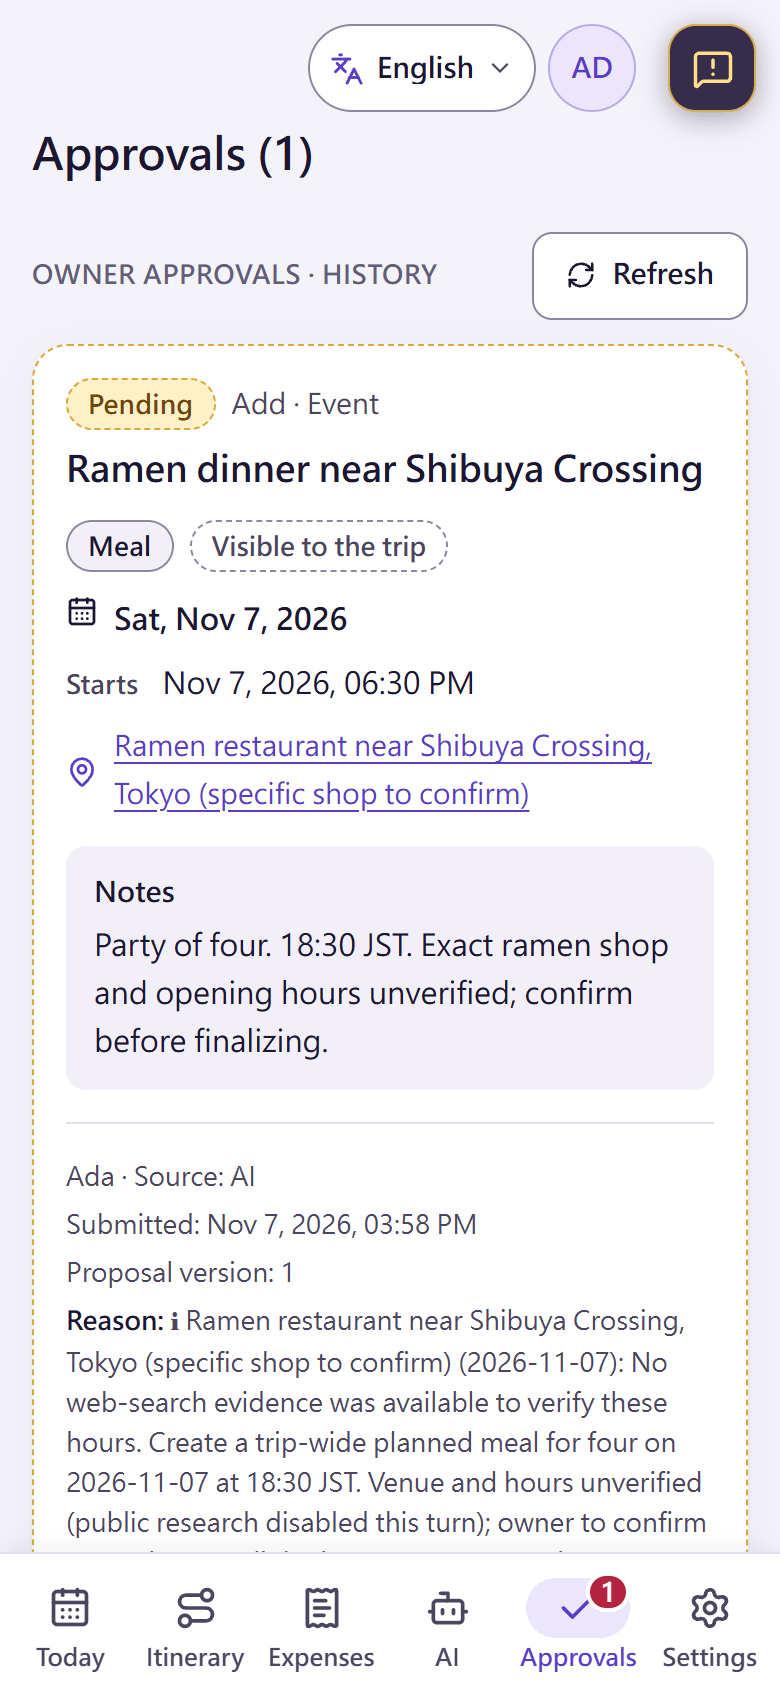
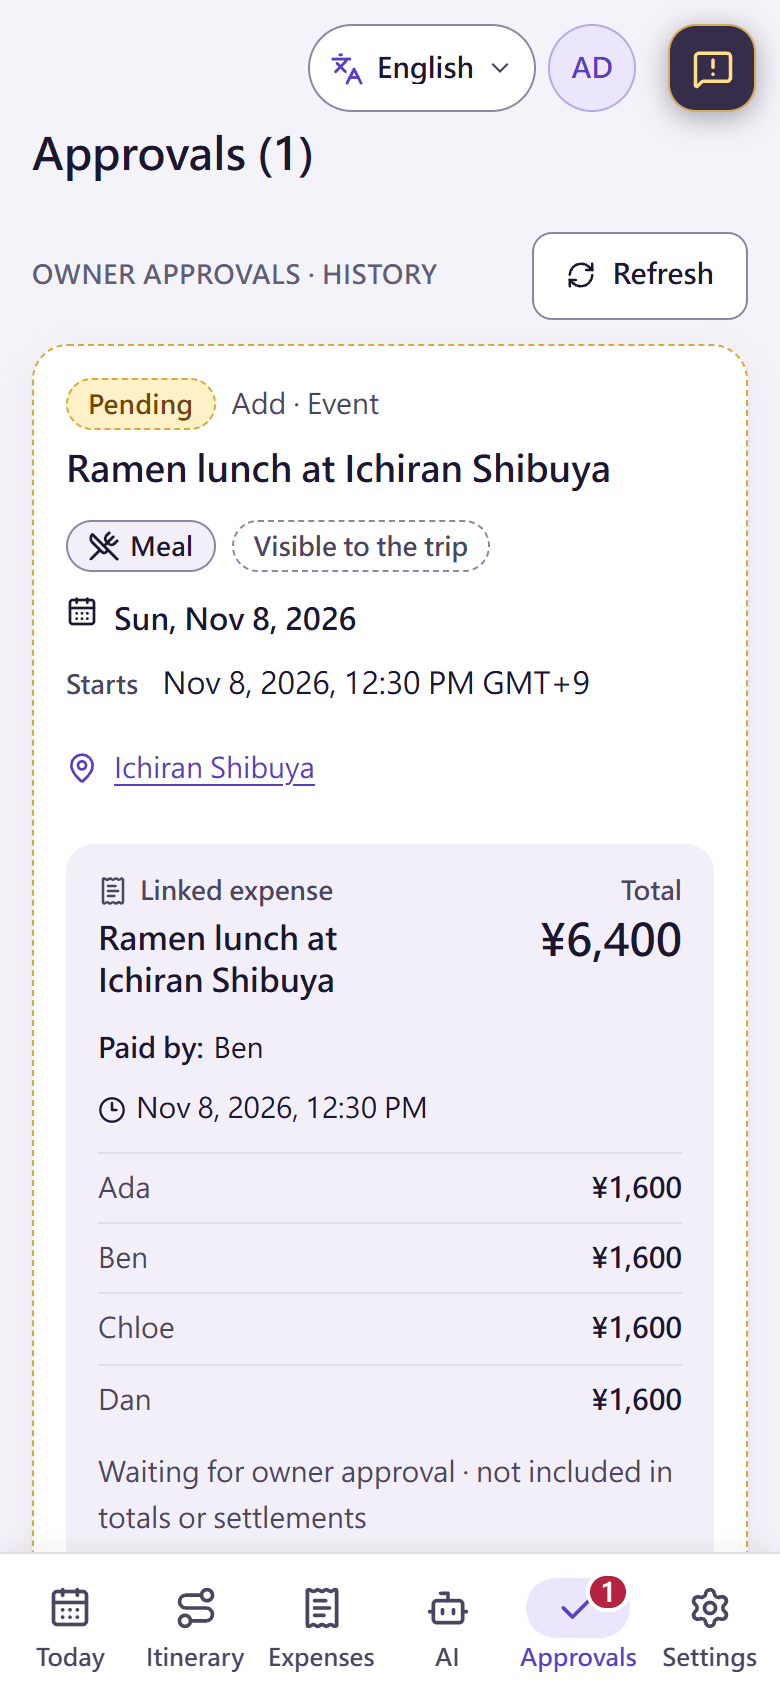
docs: README story, English screenshots and the Apache 2.0 license (JOB-095)
The README now says why the app exists, what it does (routine checks that warn
about surprises, events from a photo or a pasted email, shared expenses), how
to install it on a phone, and how to try the public instance and send
feedback. Five new English screenshots from a local build with synthetic data:
overview, a flight time changed by a routine check, an AI proposal, a
three-stop day map and the API keys section.

The application is relicensed under the Apache License 2.0 (D-107), with a
NOTICE for bundled data. JOB-093 and JOB-094 are recorded as deployed and
verified on GKE.

diff --git a/README.md b/README.md
@@ -1,26 +1,40 @@
 # Stardust Itinerary · 星塵遠征軍
 
-A mobile-first planner for group trips, where AI proposes and application code decides: one shared itinerary, expense splitting, day maps, weather and disruption checks, and flight status checks before departure. In English, Cantonese, Japanese, Simplified and Traditional Chinese, Spanish, Portuguese, French, German, Russian and Indonesian.
+A travel AI assistant that organizes trips for a group or just for you: one shared itinerary, expenses that settle themselves, and AI that keeps an eye on your flights and plans. Application code, not the model, decides what changes.
 
-**Try it:** <https://stardust-itinerary.chl-work.com>. Sign in with Google, or create an empty guest trip with a few free AI requests. Guest data expires after 24 hours and is not transferred when you sign in.
+**Try it:** <https://stardust-itinerary.chl-work.com>. Sign in with Google, or start a guest trip that is deleted after 24 hours.
 
 <p align="center">
-  <img src="docs/screenshots/today.png" width="18%" alt="Today: trip progress, the four members and the next event with its weather">
-  <img src="docs/screenshots/itinerary-cantonese.png" width="18%" alt="The day's itinerary in Cantonese, with times and weather for each event">
-  <img src="docs/screenshots/day-map.png" width="18%" alt="Day map: numbered stops on OpenStreetMap with walking and driving times">
-  <img src="docs/screenshots/expenses.png" width="18%" alt="Expenses: my own costs, bills I paid, what I still owe and a suggested settlement">
-  <img src="docs/screenshots/ai-proposal.png" width="18%" alt="A dinner proposed by the AI, waiting for the owner's approval">
+  <img src="docs/screenshots/overview.png" width="19%" alt="Overview: today's plan, trip progress, the members and the next event">
+  <img src="docs/screenshots/itinerary-flight-changed.png" width="19%" alt="Itinerary: a flight whose departure a routine check moved, marked Changed">
+  <img src="docs/screenshots/ai-proposal.png" width="19%" alt="An event proposed by the AI, waiting for approval">
+  <img src="docs/screenshots/day-map.png" width="19%" alt="Day map: three numbered stops with walking and driving times">
+  <img src="docs/screenshots/api-keys.png" width="19%" alt="The AI tab: usage, routine checks and the API keys section">
 </p>
-<p align="center"><sub>Today · itinerary in Cantonese · day map · expenses · AI proposal awaiting approval. Synthetic data on a local build.</sub></p>
+<p align="center"><sub>Overview · a flight time changed by a routine check · AI proposal · day map · API keys. Synthetic data on a local build.</sub></p>
 
-## Highlights
+## Why I built this
 
-- **One itinerary per day:** events, transport and lodging in time order, with location-local clocks. Private events stay with the people involved, and owners review changes.
-- **Expenses that add up:** equal or exact shares, totals per currency, repayments and suggested settlements, all calculated by code, not by a model.
-- **AI that proposes:** chat, or paste a booking screenshot or an event link. The model drafts events and expenses; the app checks them, and changes wait for review. On your own key, new items you could add yourself go straight in.
-- **Maps and weather:** numbered OpenStreetMap day maps with walking and driving times, a forecast for each stop and checks for official disruption notices.
-- **Choose free or bring a key:** free text planning is available to signed-in members and guests where enabled, with limits and a retention notice. OpenAI, Anthropic and Gemini keys belong to your account and stay encrypted; optional [Secret Manager storage](docs/AI_KEYS.md) preserves Cloud KMS protection.
-- **Made for phones:** swipeable days, a read-only offline copy, and AI requests that survive the phone going to sleep.
+I wanted a travel AI assistant that organizes travel, for a group or just for me. I got tired of recording and calculating expenses, begging friends to pay me back, and checking whether something unexpected had happened to a flight or a plan. Stardust does that work for me.
+
+## What it does
+
+- **Watches for surprises:** with your own AI key, routine checks look up your flights and events automatically: delays, cancellations, gate and terminal changes, closures, strikes and severe weather. Changes and warnings appear on the event, and an open page can notify you.
+- **Events from a photo:** take a picture of a ticket, a booking or a screenshot, and the AI creates the event (on your own key).
+- **Paste an email or a text:** paste a confirmation email or a message, and the AI turns it into events and expenses.
+- **Expenses that add up:** who paid, who owes whom, repayments and suggested settlements, all calculated by code, so nobody has to chase the numbers.
+- **One shared itinerary:** each day in time order with local clocks, private events, day maps and weather.
+- **Usage you can see:** the AI tab charts your tokens per day with an estimated cost.
+- **Free or your own key:** free AI for text planning, or your own OpenAI, Anthropic or Gemini key. Keys are encrypted (Cloud KMS, kept in Google Secret Manager on the public instance) and never shown again.
+- **Twelve languages:** English, Cantonese, Japanese, Simplified and Traditional Chinese, Spanish, Portuguese, French, German, Russian and Indonesian.
+
+## Install it on your phone
+
+Open <https://stardust-itinerary.chl-work.com> on your phone and tap **Install** (on Android, the install prompt or ⋮ → Install app; on iPhone, Safari's Share → **Add to Home Screen**). It then opens like an app and keeps a read-only offline copy of your itinerary.
+
+## Try it and tell me what you think
+
+The public instance runs on Google Cloud (GKE Autopilot) and is open to anyone while my $300 Google Cloud credit lasts. Please report bugs and feature requests as an [issue in this repository](https://github.com/CHL-work/stardust-itinerary/issues), or with the feedback button in the app.
 
 ## Find your way
 
@@ -46,4 +60,4 @@ pnpm dev                     # http://127.0.0.1:3100
 
 ## License
 
-[MIT](LICENSE) for application code. The bundled locality time-zone data is adapted from [GeoNames](https://www.geonames.org/) under CC BY 4.0; [attribution and changes](src/lib/app/place-time-zones.LICENSE).
+[Apache License 2.0](LICENSE); see [NOTICE](NOTICE). The bundled locality time-zone data is adapted from [GeoNames](https://www.geonames.org/) under CC BY 4.0 ([attribution and changes](src/lib/app/place-time-zones.LICENSE)), and the airport catalog from mwgg/Airports under MIT ([license](src/lib/app/airport-time-zones.LICENSE)).

diff --git a/docs/jobs/JOB-095-readme-and-license.md b/docs/jobs/JOB-095-readme-and-license.md
@@ -1,7 +1,7 @@
 ---
 id: JOB-095
 title: README story and features, English screenshots, phone install, and the Apache 2.0 license
-status: in_progress
+status: done
 priority: P2
 depends_on: [JOB-093, JOB-094]
 claimant: Claude
@@ -20,8 +20,26 @@ On 8 November 2026 the owner asked the README to say why the app exists, what it
   - five English screenshots from a local build with synthetic data: overview, an itinerary with a changed flight time, an AI proposal, a three-stop day map and the API keys section;
   - the Apache License 2.0 text, a NOTICE file and every license reference.
 - **Out:**
-  - changes to third-party data licenses.
+  - changes to third-party data licenses, which stay CC BY 4.0 (GeoNames) and MIT (mwgg/Airports).
+
+## Delivered
+
+1. **README:** a one-line pitch, **Why I built this** in the owner's words, **What it does** (routine checks that warn about surprises, events from a photo, events from a pasted email or text, expenses, the shared itinerary, usage, free or own keys with encryption, twelve languages), **Install it on your phone**, and **Try it and tell me what you think** (Google Cloud, the $300 credit, issues in this repository or the in-app feedback button). The navigation table and development steps are unchanged.
+2. **Screenshots:** `overview.png`, `itinerary-flight-changed.png`, `ai-proposal.png`, `day-map.png` and `api-keys.png` replace the JOB-076 set; `today.png`, `itinerary-cantonese.png` and `expenses.png` were removed.
+3. **License:** the canonical Apache License 2.0 text in `LICENSE` (byte for byte, so GitHub detects it), a `NOTICE` with the copyright and bundled data attributions, `"license": "Apache-2.0"` in `package.json`, and the README, privacy notice and GeoNames attribution updated. The sole copyright holder relicensed; earlier commits remain available under MIT.
+
+## How the screenshots were made
+
+All synthetic, on a loopback server; the helpers stay in the session scratchpad, not the repository.
+
+1. Build the branch (`pnpm build`), then run `.next/standalone/server.js` on `http://127.0.0.1:3214` against a disposable PostgreSQL 17 database with guest mode on (no Turnstile, placeholder Google values, a random encryption key).
+2. Seed through the app's own API as a guest: a three-day Tokyo trip with today as day 2, four members (the guest one-member guard is lifted only for these inserts, in the throwaway database), events including two flights with flight numbers, three day-2 stops that the day map can pin (明治神宮, Shibuya Sky, Tokyo Tower), bills and a repayment.
+3. Capture the day map before any pending proposal exists, so it shows exactly three numbered stops.
+4. Add the AI proposal through the app's AI proposal function (`createAiCreateRequestsWithClient`, source `ai`), because the free gateway was rate-limiting the address. Apply the flight change through `runDueFlightStatusChecks` with a scripted, source-backed 40-minute delay, so the event gets a real revision, audit entry and **Changed** badge.
+5. For the API keys shot, add a key row of random bytes with a fake last-four hint and routine checks turned on; listing keys never decrypts.
+6. Capture at 390×844, device scale 2, light theme, in headless Edge over CDP with the guest banner hidden; compress to palette PNGs with sharp. Stop the server and drop the database afterwards.
 
 ## Verification and documentation impact
 
-Pending implementation.
+- Viewed every screenshot; checked README and documentation links, the license hash (`cfc7749b…`) and that no screenshot shows real data.
+- Documents: README, NOTICE, LICENSE, D-107, privacy notice, documentation index and policy (screenshot method now points here), roadmap (JOB-058 notes the relicense), changelog and the jobs list.

diff --git a/docs/ROADMAP.md b/docs/ROADMAP.md
@@ -12,16 +12,16 @@ Where the project is going, in job-sized steps. Each job gets a file in [`jobs/`
 
 | Job | What | Status |
 | --- | --- | --- |
-| JOB-095 | README story and features, English screenshots, phone install, and the Apache 2.0 license | In progress |
-| JOB-094 | Routine checks on your own key, effort settings, and trip setup on your key or a free model | Implemented: member-funded flight and disruption checks in the web server behind a web search check, chosen model and effort, chat effort, lookups on own key or free model (D-106) |
-| JOB-093 | One AI tab with usage and estimated cost, keys, instructions and past conversations | Implemented: collapsible sections, 30-day token chart with estimated cost from published prices, keys and instructions moved from Settings (D-105) |
+| JOB-095 | README story and features, English screenshots, phone install, and the Apache 2.0 license | Done: why the app exists, key features, phone install, hosting and feedback in the README; five English screenshots; Apache 2.0 with a NOTICE (D-107) |
+| JOB-094 | Routine checks on your own key, effort settings, and trip setup on your key or a free model | Done, deployed and verified on GKE: member-funded flight and disruption checks in the web server behind a web search check, chosen model and effort, chat effort, lookups on own key or free model (D-106) |
+| JOB-093 | One AI tab with usage and estimated cost, keys, instructions and past conversations | Done, deployed and verified on GKE: collapsible sections, 30-day token chart with estimated cost from published prices, keys and instructions moved from Settings (D-105) |
 | JOB-091 | Location-local times for all events | Implemented and verified; location-aware editing/display, UTC instants preserved (D-103) |
 | JOB-090 | Flight icons and airport-local endpoint times | Review: local checks passed; authorized CI-gated release (D-102) |
 | JOB-089 | Empty-trip onboarding, remembered language and Google key setup | Review: local checks passed; authorized CI-gated release |
 | JOB-087 | Account-owned keys in Google Secret Manager | Done: activated on GKE with verified workload isolation, preserved KMS protection and 15-minute cleanup (D-099) |
 | JOB-088 | Lightweight event type icons | Done: shared inline SVGs, responsive checks and refreshed synthetic screenshots; deployed to GKE (D-100) |
 | JOB-086 | Free AI for signed-in users and guests | Done: individual free-model picker, paid choices only with own saved keys, enabled and verified on GKE (D-098). See the job for release evidence |
-| JOB-058 | Public repository with fresh history (MIT); one container image for web, workers, migrations and backups; Docker Compose self-hosting | Done |
+| JOB-058 | Public repository with fresh history (MIT, Apache 2.0 since JOB-095); one container image for web, workers, migrations and backups; Docker Compose self-hosting | Done |
 | JOB-059 | GKE Autopilot in OpenTofu (`infra/`), Kustomize manifests (`deploy/k8s`), Secret Manager mounts, encrypted backups, deploy script and the `deploy` workflow with an approval step | Done |
 | JOB-060 | Move the public instance from its earlier single VM to GKE without losing writes | Done: cut over on November 4, 2026 after a staging rehearsal. The old services are disabled; the VM stays as a rollback for now |
 | JOB-061 | Bring-your-own API keys | In review: Settings → AI keys, encrypted storage, per-request isolation, own-key funding, AI on in every trip, and fixes from a security review. Usage display moves to JOB-066 |

diff --git a/docs/DOCUMENTATION_POLICY.md b/docs/DOCUMENTATION_POLICY.md
@@ -23,7 +23,7 @@ Do not edit unaffected files merely to bump dates. That hides useful history and
 - `AGENTS.md` owns repository rules; [self-hosting](SELF_HOSTING.md) and [deployment](DEPLOYMENT.md) own operating commands; the [roadmap](ROADMAP.md) and job records own planned work; topic documents own feature contracts. Link instead of copying them into every entry point.
 - README is a brief overview and navigation page, not a rollout journal. Details belong in the topic documents it links to.
 - The [documentation index](README.md) lists every document. Add, rename or remove a document there in the same change.
-- README screenshots show synthetic data only, from a local build. Replace one when its screen changes visibly, the way [JOB-076](jobs/JOB-076-readme-screenshots.md#how-the-screenshots-were-made) made them.
+- README screenshots show synthetic data only, from a local build. Replace one when its screen changes visibly, the way [JOB-095](jobs/JOB-095-readme-and-license.md#how-the-screenshots-were-made) made them.
 - Remove superseded commands and implementation narratives from active guides. Keep necessary historical evidence in labeled job records, CHANGELOG and Git history; old approval or test results never grant present authority or prove current runtime health.
 - Label proposal-only features and outstanding decisions. Never describe an approved design as implemented without code/release evidence.
 - This repository is public. Never commit personal emails, cloud project IDs, host names, IP addresses, local machine paths, bucket names, secrets, real traveler data, or deployment evidence from a private instance; describe hosting generically and link to the hosting documents.

diff --git a/docs/jobs/JOB-094-routine-checks-on-your-key.md b/docs/jobs/JOB-094-routine-checks-on-your-key.md
@@ -1,7 +1,7 @@
 ---
 id: JOB-094
 title: Routine checks on your own key, effort settings, and trip setup on your key or a free model
-status: review
+status: done
 priority: P2
 depends_on: [JOB-083, JOB-087, JOB-093]
 claimant: Claude
@@ -36,5 +36,7 @@ On 8 November 2026 the owner asked that routine flight and event checks run for 
 
 ## Verification and documentation impact
 
+- Full `pnpm check` passed in an isolated worktree: lint, types, 6,242 unit tests in 273 files, the database suite on disposable PostgreSQL 17, the production build and the smoke test.
+- Production: commit `9985cf3` passed CI and the deploy workflow on November 8, 2026 (pre-deploy backup and migration jobs completed). Both web pods run it with `ROUTINE_CHECKS_ENABLED=true`, `/api/health` reports the database ready, the new usage and preferences endpoints refuse signed-out requests, and a read-only probe confirmed migration 0068 and its columns, with no preference rows yet. No real trips were written.
 - Unit tests: the web search gate, Gemini routing and its query privacy gate, payer rules, request columns, the scheduler's bounds and overlap guard, effort defaults, lookup funding choices and the own-key lookup environment. Database test at migration head: constraints, the gate, member-funded flight and disruption checks with scripted providers, owner priority, key replacement and suspension.
 - Documents: D-106 (and notes in D-071, D-075, D-095); AGENTS funding rules; AI tab, flight status, AI and agents, key storage, members and funding, destination defaults, threat model, privacy notice, architecture, deployment, self-hosting, notifications, Activity, `.env.example` and Compose.

diff --git a/docs/jobs/JOB-093-ai-tab.md b/docs/jobs/JOB-093-ai-tab.md
@@ -1,7 +1,7 @@
 ---
 id: JOB-093
 title: One AI tab with usage and estimated cost, keys, instructions and past conversations
-status: review
+status: done
 priority: P2
 depends_on: [JOB-066, JOB-086]
 claimant: Claude
@@ -35,5 +35,7 @@ On 8 November 2026 the owner asked for one AI tab: a token usage chart with an e
 
 ## Verification and documentation impact
 
+- Full `pnpm check` passed in an isolated worktree: lint, types, 6,242 unit tests in 273 files, the database suite on disposable PostgreSQL 17, the production build and the smoke test.
+- Production: commit `9985cf3` passed CI and the deploy workflow on November 8, 2026 (pre-deploy backup and migration jobs completed). Both web pods run it with `ROUTINE_CHECKS_ENABLED=true`, `/api/health` reports the database ready, the new usage and preferences endpoints refuse signed-out requests, and a read-only probe confirmed migration 0068 and its columns, with no preference rows yet. No real trips were written.
 - Unit tests: prices and windows, usage aggregation and payer rules, the chart and tables, section memory, the moved editors and the locale packs. Database test at migration head: preferences, payer selection, request records and the usage summary.
 - Documents: new [AI tab contract](../AI_TAB.md); D-105; index, design, layouts, conversation history, instructions, keys, members and funding, identity, implementation, database, sources, changelog and roadmap.

diff --git a/docs/DECISIONS.md b/docs/DECISIONS.md
@@ -2,6 +2,10 @@
 
 Current decisions are summarized here; accepted direction does not imply implementation or current permission to act. [IMPLEMENTATION](IMPLEMENTATION.md) describes shipped scope; hosting is in [self-hosting](SELF_HOSTING.md) and [deployment](DEPLOYMENT.md). Superseded detail remains in Git history; do not follow historical rollout commands.
 
+## D-107: Apache License 2.0, and a README that says why (accepted November 8, 2026)
+
+The owner, the sole copyright holder, relicensed the application under the Apache License 2.0 (canonical text in `LICENSE`, attributions in `NOTICE`); earlier commits remain available under MIT, and bundled third-party data keeps its own licenses. The README now leads with why the app exists, what it does, how to install it on a phone and how to try the public instance and send feedback, with five English screenshots from a local build with synthetic data (JOB-095).
+
 ## D-106: Routine checks on a member's own key, effort settings, and trip setup on your key or a free model (accepted November 8, 2026)
 
 The owner asked that routine flight and event checks run for anyone who saves an API key that can search the web, with a model and effort they choose; a chat effort setting with reasonable defaults; and the create-trip AI on the user's own key, or a free model without one (JOB-094). The owner authorized deploying without further approval.

diff --git a/docs/jobs/README.md b/docs/jobs/README.md
@@ -4,9 +4,9 @@ Job files for work in this repository, following the [job system](../JOB_SYSTEM.
 
 | Job | Title | Status |
 | --- | --- | --- |
-| [JOB-095](JOB-095-readme-and-license.md) | README story and features, English screenshots, phone install, and the Apache 2.0 license | in_progress |
-| [JOB-094](JOB-094-routine-checks-on-your-key.md) | Routine checks on your own key, effort settings, and trip setup on your key or a free model | in_progress |
-| [JOB-093](JOB-093-ai-tab.md) | One AI tab with usage and estimated cost, keys, instructions and past conversations | in_progress |
+| [JOB-095](JOB-095-readme-and-license.md) | README story and features, English screenshots, phone install, and the Apache 2.0 license | done |
+| [JOB-094](JOB-094-routine-checks-on-your-key.md) | Routine checks on your own key, effort settings, and trip setup on your key or a free model | done |
+| [JOB-093](JOB-093-ai-tab.md) | One AI tab with usage and estimated cost, keys, instructions and past conversations | done |
 | [JOB-091](JOB-091-event-local-times.md) | Location-local clocks for every event | review |
 | [JOB-090](JOB-090-flight-local-times.md) | Flight icons and airport-local endpoint times | review |
 | JOB-058 | Public repository, container image, Docker Compose | done |

diff --git a/docs/README.md b/docs/README.md
@@ -4,7 +4,7 @@ Every document in this repository, by area, with one line each. The [README](../
 
 ## Start here
 
-- [README](../README.md): what Stardust is, with screenshots.
+- [README](../README.md): what Stardust is and why, its features, phone install and screenshots.
 - [AGENTS.md](../AGENTS.md): rules for every human and AI contributor. [CLAUDE.md](../CLAUDE.md) points there.
 - [Contributing](../CONTRIBUTING.md): setup, checks and pull requests.
 - [Case study](CASE_STUDY.md): the engineering choices, in one page.
@@ -75,4 +75,4 @@ Every document in this repository, by area, with one line each. The [README](../
 
 - [Documentation policy](DOCUMENTATION_POLICY.md): what every change must keep accurate, including this index.
 - [Sources](SOURCES.md): dated research bibliography.
-- [Screenshots](screenshots/): the README's phone screenshots, synthetic data only ([how they were made](jobs/JOB-076-readme-screenshots.md#how-the-screenshots-were-made)).
+- [Screenshots](screenshots/): the README's phone screenshots, synthetic data only ([how they were made](jobs/JOB-095-readme-and-license.md#how-the-screenshots-were-made)).

diff --git a/CHANGELOG.md b/CHANGELOG.md
@@ -96,6 +96,8 @@ All notable changes to this project. The format follows [Keep a Changelog](https
 
 ### Changed
 
+- **Apache License 2.0 (JOB-095, D-107):** the application is relicensed from MIT to Apache 2.0, with a NOTICE for bundled data.
+- **README (JOB-095):** why the app exists, what it does, phone install, how to try the public instance and send feedback, and five new English screenshots: overview, a flight time changed by a routine check, an AI proposal, a three-stop day map and the API keys section.
 - **Trip setup on your key or a free model (JOB-094, D-106):** the create-trip destination lookup uses the creator's own key with its provider's lightest model, else a free model where free AI is on, else the operator's key; the platform operator keeps the operator's key. Lookups record who paid.
 - **Copy points at the AI tab:** messages that named Settings → AI keys now name AI → API keys, in every language.
 - **Only the selected language is downloaded (JOB-085, D-097):**

diff --git a/docs/PRIVACY.md b/docs/PRIVACY.md
@@ -88,7 +88,7 @@ The optional account-key storage backend keeps encrypted key material in Google 
 - It is a personal project. It comes with no guarantee of availability, and may change or stop.
 - Requests on your own AI key are billed to your provider account, under your provider's terms.
 - Do not use it to attack the service or other people. The operator may suspend accounts that abuse it, pause new sign-ups or turn off guest mode. A suspended account cannot sign in until the operator restores it, and keys it shared stop working for others.
-- The software is open source under the MIT license.
+- The software is open source under the Apache License 2.0.
 
 ## Contact
 
